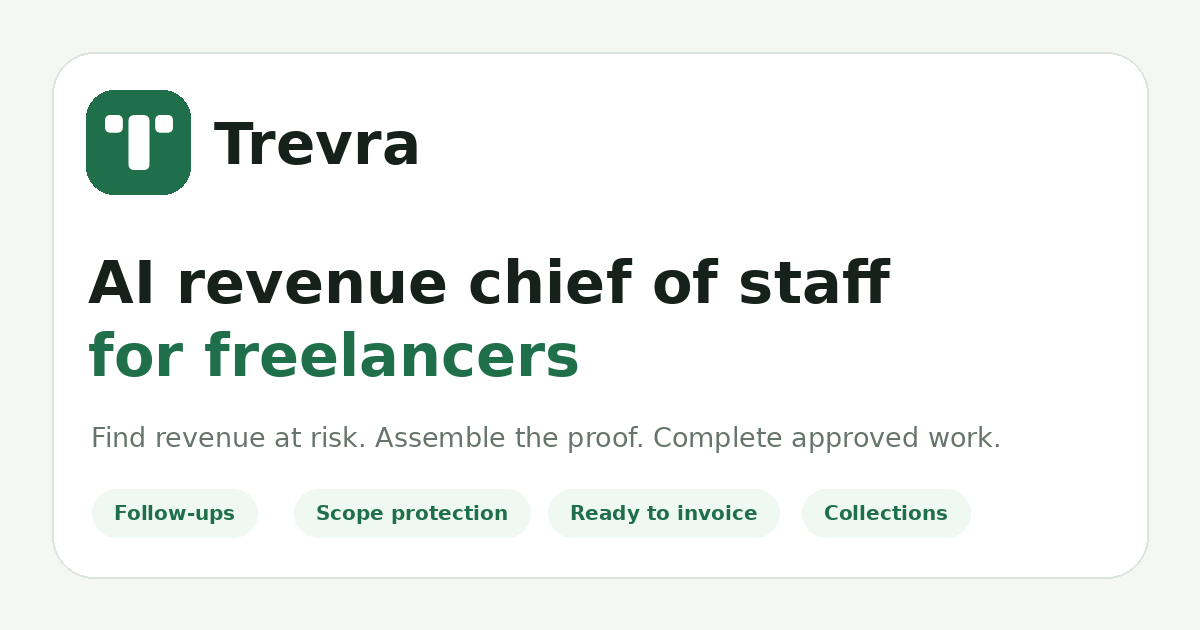
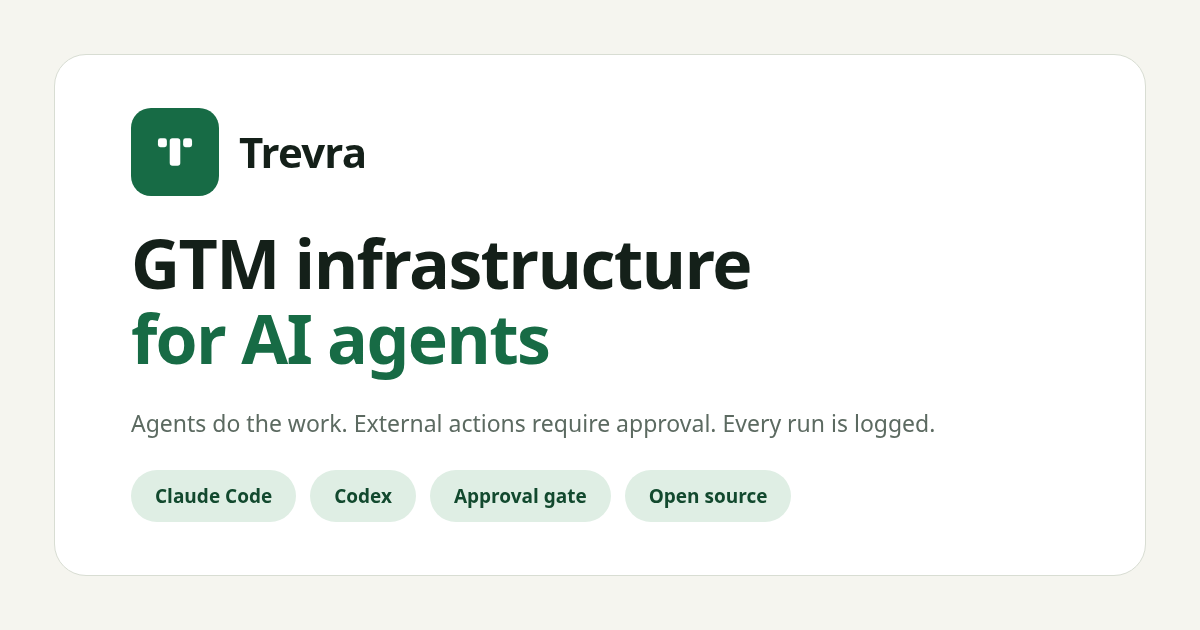
og: regenerate social card from current copy; 404: drop retired revenue-brief vocabulary

diff --git a/assets/og/trevra-social.html b/assets/og/trevra-social.html
@@ -1,0 +1,177 @@
+<!doctype html>
+<!--
+  Trevra social share card, source for public/og/trevra-social.png.
+
+  Build input only -- never served, never linked from the app. Rasterized by
+  scripts/render-og-image.ts (`npm run og:build`) with headless Chrome at a
+  fixed 1200x630 viewport. No webfont, no external asset, no network request:
+  the render must work offline, so every color, font stack, weight, and
+  tracking value below is copied verbatim from the `:root` tokens in
+  public/marketing.css (see the TYPEFACE note at the top of that file)
+  instead of linking that stylesheet, since this file has to stand alone.
+-->
+<html lang="en">
+  <head>
+    <meta charset="utf-8" />
+    <title>Trevra social card</title>
+    <style>
+      :root {
+        /* -- copied from public/marketing.css :root -------------------- */
+        --t-ink: #142019;
+        --t-muted: #5c6a61;
+        --t-line: #d8ddd3;
+        --t-bg-warm: #f5f5ef;
+        --t-surface: #ffffff;
+        --t-green-100: #dfeee4;
+        --t-green-fill: #176b45;
+        --t-green-ink: #12492e;
+        --t-w-bold: 700;
+        --t-track-display: -0.025em; /* 48px and up */
+        --t-track-title: -0.018em; /* 24px to 40px */
+        --t-display:
+          'Segoe UI Variable Display', system-ui, -apple-system, BlinkMacSystemFont, 'Segoe UI',
+          Roboto, 'Helvetica Neue', Arial, sans-serif;
+        --t-body:
+          'Segoe UI Variable Text', system-ui, -apple-system, BlinkMacSystemFont, 'Segoe UI',
+          Roboto, 'Helvetica Neue', Arial, sans-serif;
+      }
+
+      * {
+        box-sizing: border-box;
+      }
+
+      html,
+      body {
+        margin: 0;
+        padding: 0;
+        width: 1200px;
+        height: 630px;
+        overflow: hidden;
+        background: var(--t-bg-warm);
+        font-family: var(--t-body);
+        -webkit-font-smoothing: antialiased;
+      }
+
+      .frame {
+        width: 1200px;
+        height: 630px;
+        padding: 54px;
+        display: flex;
+      }
+
+      .card {
+        flex: 1;
+        display: flex;
+        flex-direction: column;
+        justify-content: center;
+        gap: 30px;
+        background: var(--t-surface);
+        border: 1px solid var(--t-line);
+        border-radius: 32px;
+        padding: 0 76px;
+      }
+
+      .brand {
+        display: flex;
+        align-items: center;
+        gap: 20px;
+      }
+
+      .mark {
+        width: 88px;
+        height: 88px;
+        flex: none;
+        border-radius: 20px;
+        background: var(--t-green-fill);
+        display: flex;
+        align-items: center;
+        justify-content: center;
+      }
+
+      .mark svg {
+        width: 52px;
+        height: auto;
+        display: block;
+      }
+
+      .wordmark {
+        font-family: var(--t-body);
+        font-weight: var(--t-w-bold);
+        font-size: 42px;
+        letter-spacing: var(--t-track-title);
+        color: var(--t-ink);
+      }
+
+      .headline {
+        font-family: var(--t-display);
+        font-weight: var(--t-w-bold);
+        font-size: 68px;
+        line-height: 1.1;
+        letter-spacing: var(--t-track-display);
+        color: var(--t-ink);
+        margin: 0;
+      }
+
+      .headline .accent {
+        display: block;
+        color: var(--t-green-fill);
+      }
+
+      .sub {
+        max-width: 940px;
+        font-family: var(--t-body);
+        font-weight: 400;
+        font-size: 23px;
+        line-height: 1.5;
+        color: var(--t-muted);
+        margin: 0;
+        white-space: nowrap;
+      }
+
+      .chips {
+        display: flex;
+        flex-wrap: nowrap;
+        gap: 14px;
+      }
+
+      .chip {
+        display: inline-flex;
+        align-items: center;
+        white-space: nowrap;
+        padding: 13px 24px;
+        border-radius: 999px;
+        background: var(--t-green-100);
+        color: var(--t-green-ink);
+        font-family: var(--t-body);
+        font-weight: var(--t-w-bold);
+        font-size: 19px;
+      }
+    </style>
+  </head>
+  <body>
+    <div class="frame">
+      <div class="card">
+        <div class="brand">
+          <span class="mark">
+            <svg viewBox="0 0 64 64" fill="#ffffff" aria-hidden="true">
+              <rect x="11" y="15" width="11" height="11" rx="3" />
+              <rect x="42" y="15" width="11" height="11" rx="3" />
+              <rect x="25.5" y="15" width="13" height="34" rx="3.4" />
+            </svg>
+          </span>
+          <span class="wordmark">Trevra</span>
+        </div>
+        <h1 class="headline">GTM infrastructure<span class="accent">for AI agents</span></h1>
+        <p class="sub">
+          Agents do the work. External actions require approval. Every run is logged.
+        </p>
+        <div class="chips">
+          <span class="chip">Claude Code</span>
+          <span class="chip">Codex</span>
+          <span class="chip">Approval gate</span>
+          <span class="chip">Open source</span>
+        </div>
+      </div>
+    </div>
+  </body>
+</html>

diff --git a/scripts/render-og-image.ts b/scripts/render-og-image.ts
@@ -1,0 +1,47 @@
+/**
+ * Rasterizes assets/og/trevra-social.html into public/og/trevra-social.png
+ * with headless Chrome. The HTML is a build input, not a served asset; this
+ * script is how the committed PNG gets regenerated when the card's copy or
+ * design changes. Not wired into build:marketing -- the PNG is committed and
+ * regenerated deliberately, run by hand: `npm run og:build`.
+ */
+import { execFileSync } from 'node:child_process';
+import { existsSync, statSync } from 'node:fs';
+import { resolve } from 'node:path';
+
+const CHROME_PATH = process.env.CHROME_PATH ?? '/usr/bin/google-chrome-stable';
+const WIDTH = 1200;
+const HEIGHT = 630;
+
+const input = resolve(process.argv[2] ?? 'assets/og/trevra-social.html');
+const output = resolve(process.argv[3] ?? 'public/og/trevra-social.png');
+
+if (!existsSync(CHROME_PATH)) {
+  throw new Error(
+    `render-og-image: Chrome not found at ${CHROME_PATH}. Set CHROME_PATH or install google-chrome-stable.`
+  );
+}
+if (!existsSync(input)) {
+  throw new Error(`render-og-image: input HTML not found at ${input}`);
+}
+
+execFileSync(
+  CHROME_PATH,
+  [
+    '--headless=new',
+    '--disable-gpu',
+    '--no-sandbox',
+    `--screenshot=${output}`,
+    `--window-size=${WIDTH},${HEIGHT}`,
+    '--hide-scrollbars',
+    '--force-device-scale-factor=1',
+    `file://${input}`
+  ],
+  { stdio: 'inherit' }
+);
+
+if (!existsSync(output) || statSync(output).size === 0) {
+  throw new Error(`render-og-image: expected Chrome to write ${output}, but it did not.`);
+}
+
+console.log(`render-og-image: wrote ${output} (${statSync(output).size} bytes)`);

diff --git a/src/server/public-site.ts b/src/server/public-site.ts
@@ -504,8 +504,9 @@ export function renderNotFoundPage(nonce: string): string {
       path: '/404',
       title: 'Page not found | Trevra',
       description: 'The requested Trevra page could not be found.',
-      heading: 'That page is not part of the revenue brief.',
-      intro: 'Return to Trevra to create a workspace or continue your commercial work.',
+      heading: "This page doesn't exist.",
+      intro:
+        'Return to Trevra to open a workspace or point Claude Code or Codex at the module catalog.',
       body: '<p><a class="launch-button" href="/">Return to Trevra</a></p>',
       noindex: true
     },
